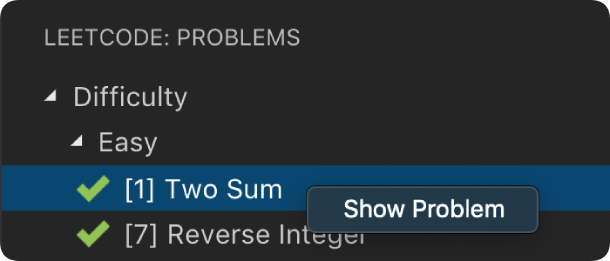
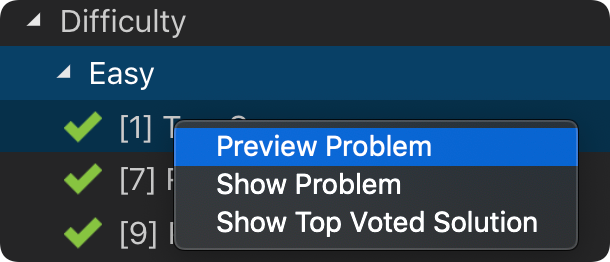
Prepare for 0.13.0 (#204)

diff --git a/ACKNOWLEDGEMENTS.md b/ACKNOWLEDGEMENTS.md
@@ -5,8 +5,10 @@ A big thanks to the following individuals for contributing:
 - [@purocean](https://github.com/purocean) for contributing [#46](https://github.com/jdneo/vscode-leetcode/pull/46)
 - [@Xeonacid](https://github.com/Xeonacid) for contributing [#58](https://github.com/jdneo/vscode-leetcode/pull/58).
 - [@Himself65](https://github.com/Himself65) for contributing [#61](https://github.com/jdneo/vscode-leetcode/pull/61)
-- [@Vigilans](https://github.com/Vigilans) for contributing [#94](https://github.com/jdneo/vscode-leetcode/pull/94)
+- [@Vigilans](https://github.com/Vigilans) for contributing [#94](https://github.com/jdneo/vscode-leetcode/pull/94), [#193](https://github.com/jdneo/vscode-leetcode/pull/193)
 - [@ringcrl](https://github.com/ringcrl) for contributing [#123](https://github.com/jdneo/vscode-leetcode/pull/123)
 - [@pujiaxun](https://github.com/pujiaxun) for contributing [#143](https://github.com/jdneo/vscode-leetcode/pull/143)
 - [@edvardchen](https://github.com/edvardchen) for contributing [#147](https://github.com/jdneo/vscode-leetcode/pull/147)
 - [@poppinlp](https://github.com/poppinlp) for contributing [#149](https://github.com/jdneo/vscode-leetcode/pull/149), [#171](https://github.com/jdneo/vscode-leetcode/pull/171), [#175](https://github.com/jdneo/vscode-leetcode/pull/175)
+- [@xuzaixian](https://github.com/xuzaixian) for contributing [#186](https://github.com/jdneo/vscode-leetcode/pull/186)
+- [@ZainChen](https://github.com/ZainChen) for contributing [#197](https://github.com/jdneo/vscode-leetcode/pull/197)

diff --git a/README.md b/README.md
@@ -27,7 +27,7 @@
 - [中文文档](https://github.com/jdneo/vscode-leetcode/blob/master/docs/README_zh-CN.md)
 
 ## Requirements
-- [VS Code 1.23.0+](https://code.visualstudio.com/)
+- [VS Code 1.30.1+](https://code.visualstudio.com/)
 - [Node.js 8+](https://nodejs.org)
     > NOTE: Please make sure that `Node` is in your `PATH` environment variable. You can check this by running: `node -v`.
 
@@ -70,11 +70,21 @@
   <img src="https://raw.githubusercontent.com/jdneo/vscode-leetcode/master/docs/imgs/pick_problem.png" alt="Pick a Problem" />
 </p>
 
-- Right click the problem in the `LeetCode Explorer` and select `Show Problem` will generate a new file with the problem description for you.
+- Directly click on the problem or right click the problem in the `LeetCode Explorer` and select `Preview Problem` to see the problem description.
+- Select `Show Problem` to directly open the file with the problem description.
 
   > Note: If no folder is opened in VS Code, the extension will save the problem files in **$HOME/.leetcode/**.
 
   > You can switch the default language by triggering the command: `LeetCode: Switch Default Language`.
+
+---
+
+### Show Top Voted Solution
+<p align="center">
+  <img src="https://raw.githubusercontent.com/jdneo/vscode-leetcode/master/docs/imgs/solution.png" alt="Show Top Voted Solution" />
+</p>
+
+- Select `Show Top Voted Solution` will display the top voted solution for you.
 
 ---
 

diff --git a/docs/README_zh-CN.md b/docs/README_zh-CN.md
@@ -20,7 +20,7 @@
   </a>
 </p>
 
-## Sponsor
+## 赞助
 [![coding](https://raw.githubusercontent.com/jdneo/vscode-leetcode/master/docs/imgs/sponsor_coding.jpg)](https://e.coding.net/?utm_source=leetcode)
 
 - [English Document](#Requirements)
@@ -70,11 +70,21 @@
   <img src="https://raw.githubusercontent.com/jdneo/vscode-leetcode/master/docs/imgs/pick_problem.png" alt="选择题目" />
 </p>
 
-- 在 `LeetCode Explorer` 中**右键**题目并选择 `Show Problem` 进行答题。
+- 直接点击题目或者在 `LeetCode Explorer` 中**右键**题目并选择 `Preview Problem` 可查看题目描述
+- 选择 `Show Problem` 可直接进行答题。
 
   > 注意：若当前 VS Code 没有已打开的文件夹，则生成的题目文件会存储于 **$HOME/.leetcode/** 目录下。
 
   > 注意：你可以通过 `LeetCode: Switch Default Language` 命令变更答题时默认使用编程语言。
+
+---
+
+### 查看高票解答
+<p align="center">
+  <img src="https://raw.githubusercontent.com/jdneo/vscode-leetcode/master/docs/imgs/solution.png" alt="高票解答" />
+</p>
+
+- 选择 `Show Top Voted Solution` 可查看该题目在讨论区内的高票解答。
 
 ---
 

diff --git a/CHANGELOG.md b/CHANGELOG.md
@@ -3,6 +3,15 @@ All notable changes to the "leetcode" extension will be documented in this file.
 
 Check [Keep a Changelog](http://keepachangelog.com/) for recommendations on how to structure this file.
 
+## [0.13.0]
+## Added
+- Preview the problem description [#131](https://github.com/jdneo/vscode-leetcode/issues/131)
+- Show top voted solution [#193](https://github.com/jdneo/vscode-leetcode/pull/193)
+- Add `collapse all` for the explorer [#197](https://github.com/jdneo/vscode-leetcode/pull/197)
+
+## Fixed
+[Bugs fixed](https://github.com/jdneo/vscode-leetcode/issues?q=is%3Aissue+is%3Aclosed+milestone%3A0.13.0+label%3Abug)
+
 ## [0.12.0]
 ## Added
 - Add new command `LeetCode: Switch Default Language` to support switching the default language [#115](https://github.com/jdneo/vscode-leetcode/issues/115)
